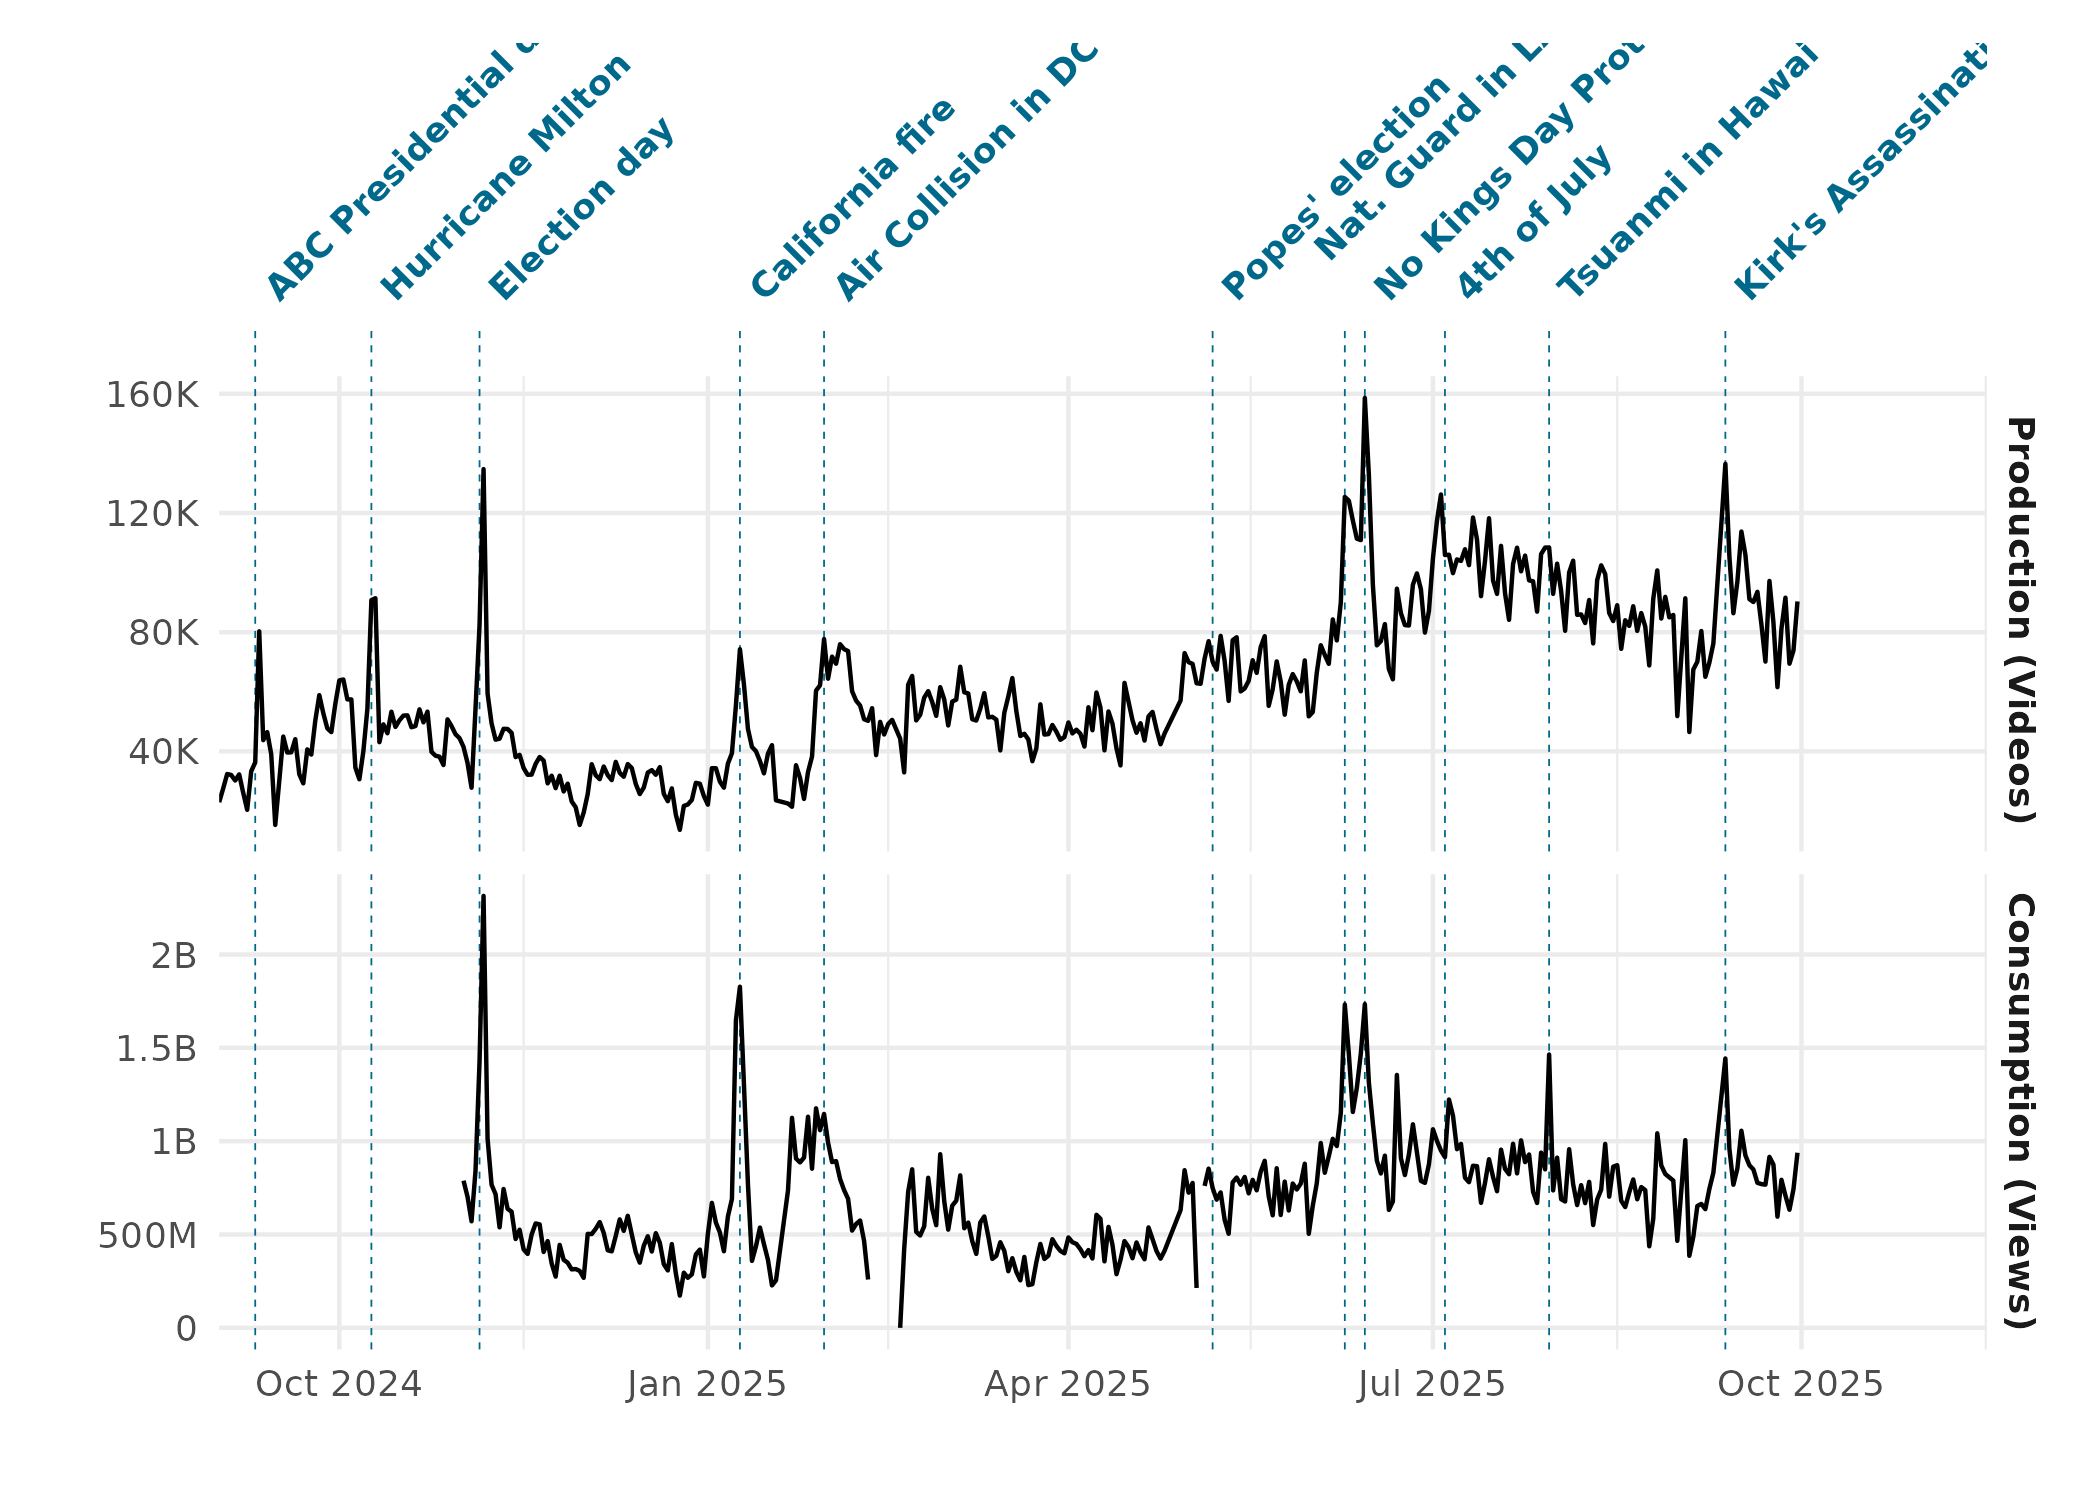
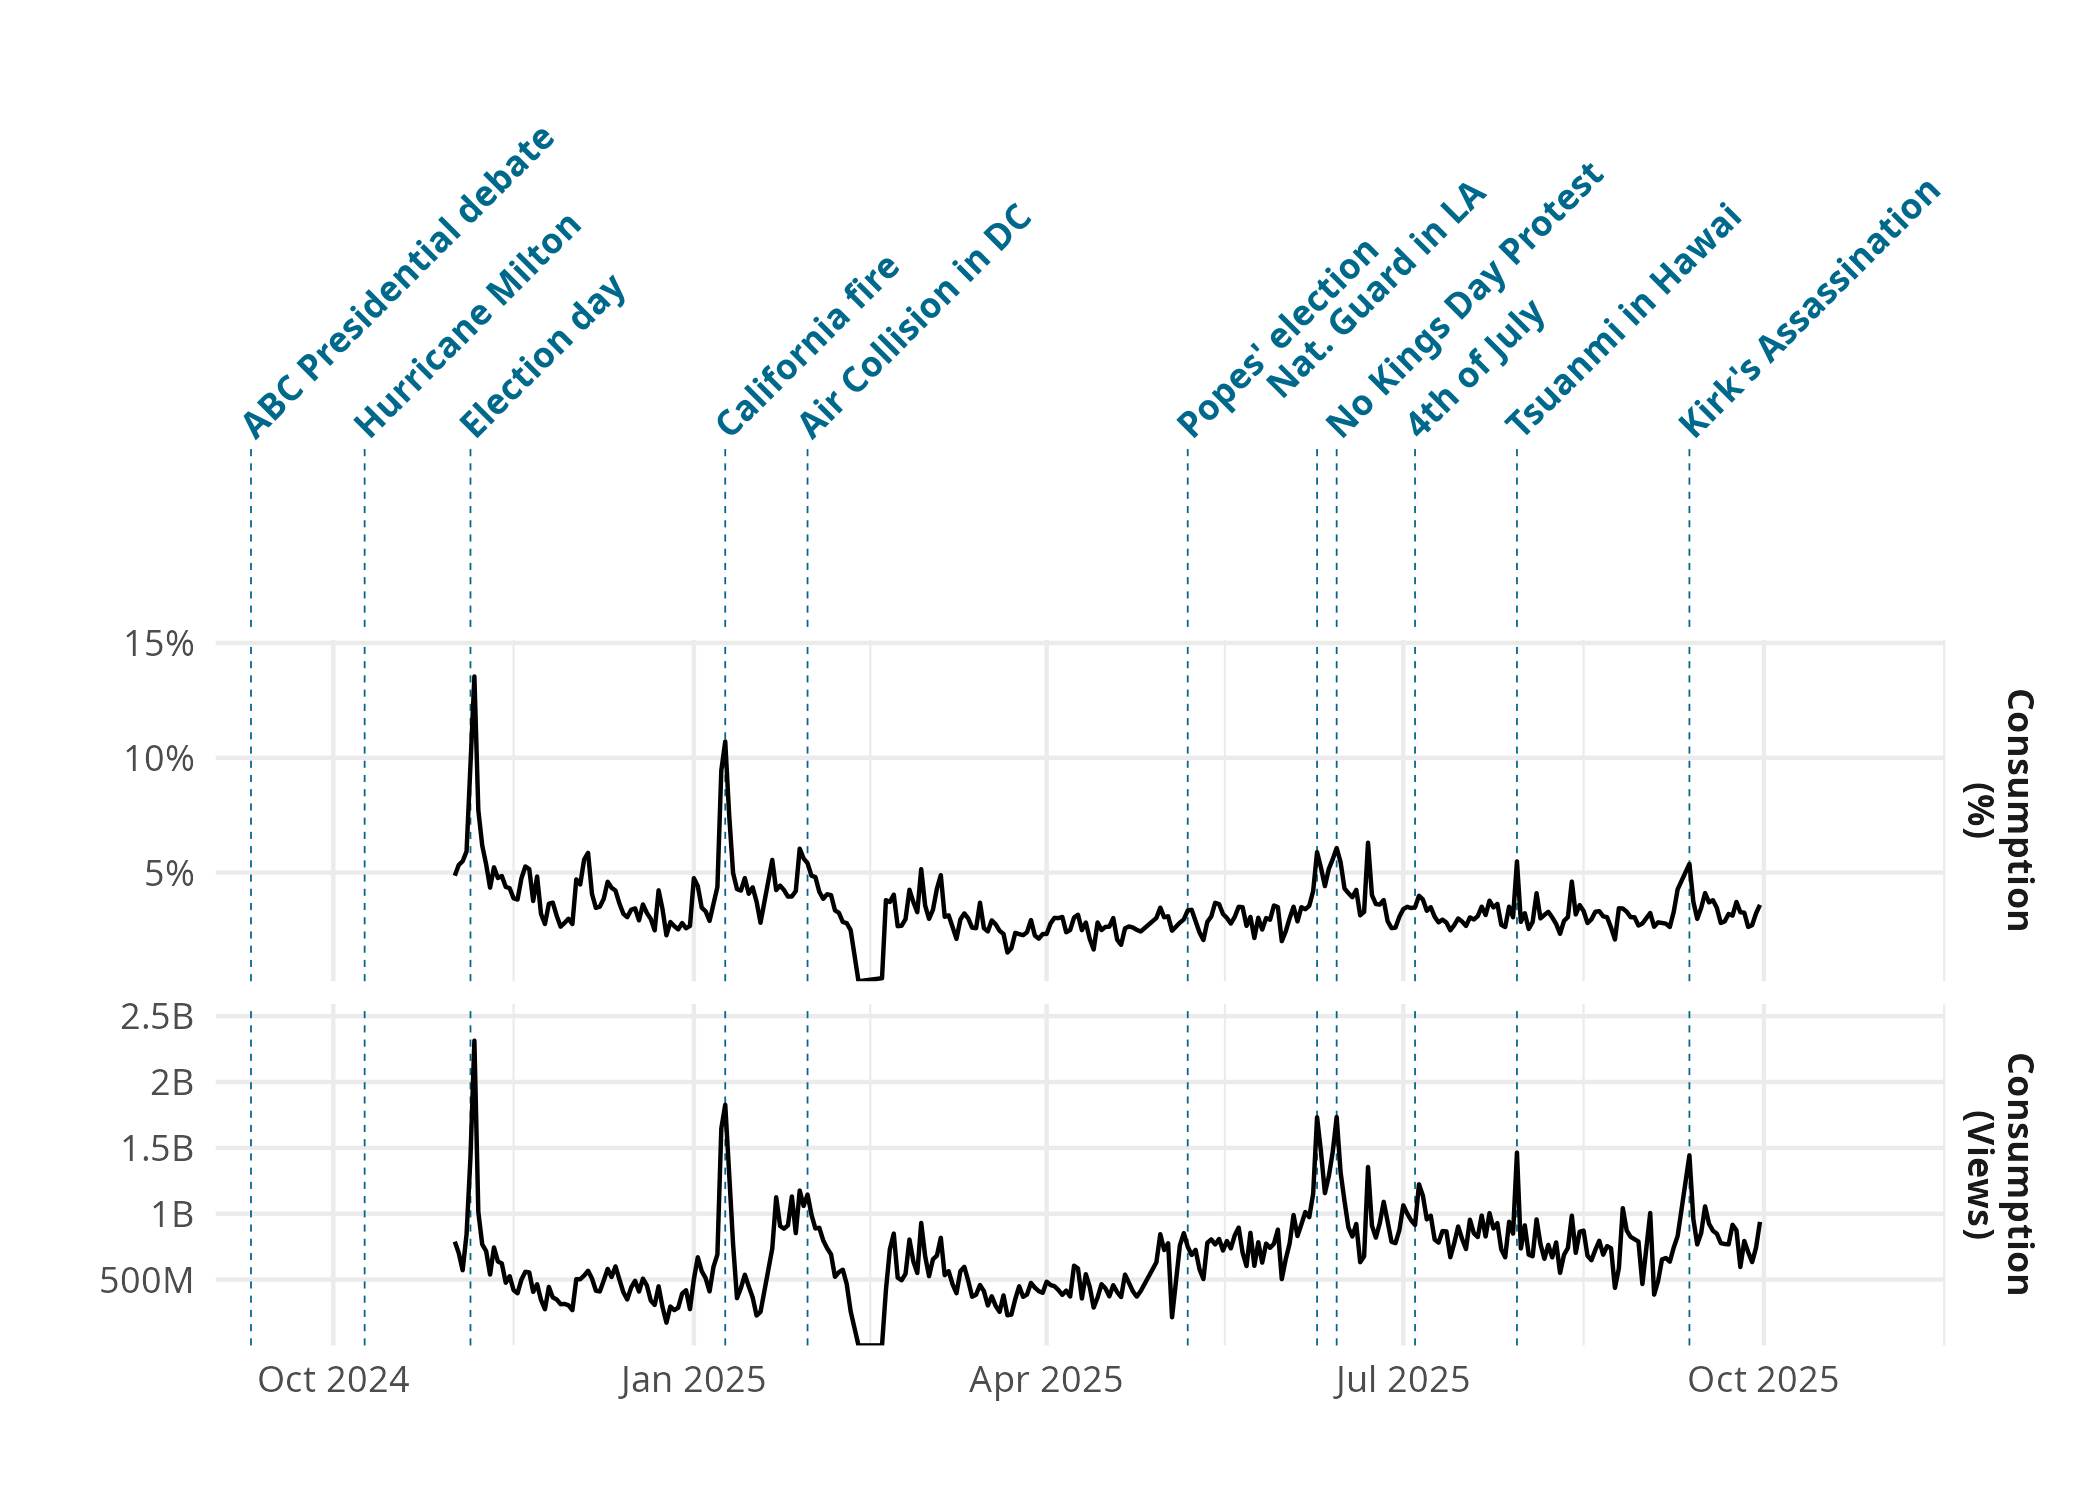
Slide 46: use label_engagement_.png

diff --git a/index.html b/index.html
@@ -744,7 +744,7 @@ Une fois collectées, il s’agit de les <strong>analyser</strong> — ce qui re
 <section id="le-contenu-politique-génère-plus-de-commentaires" class="slide level2">
 <h2>📊 Le contenu politique génère plus de commentaires</h2>
 
-<img data-src="assets/csmap/engagement_by_category.png" class="quarto-figure quarto-figure-center r-stretch" style="width:95.0%"></section>
+<img data-src="assets/csmap/label_engagement_.png" class="quarto-figure quarto-figure-center r-stretch" style="width:95.0%"></section>
 <section id="un-oligopole-de-lattention" class="slide level2">
 <h2>📊 Un oligopole de l’attention</h2>
 
